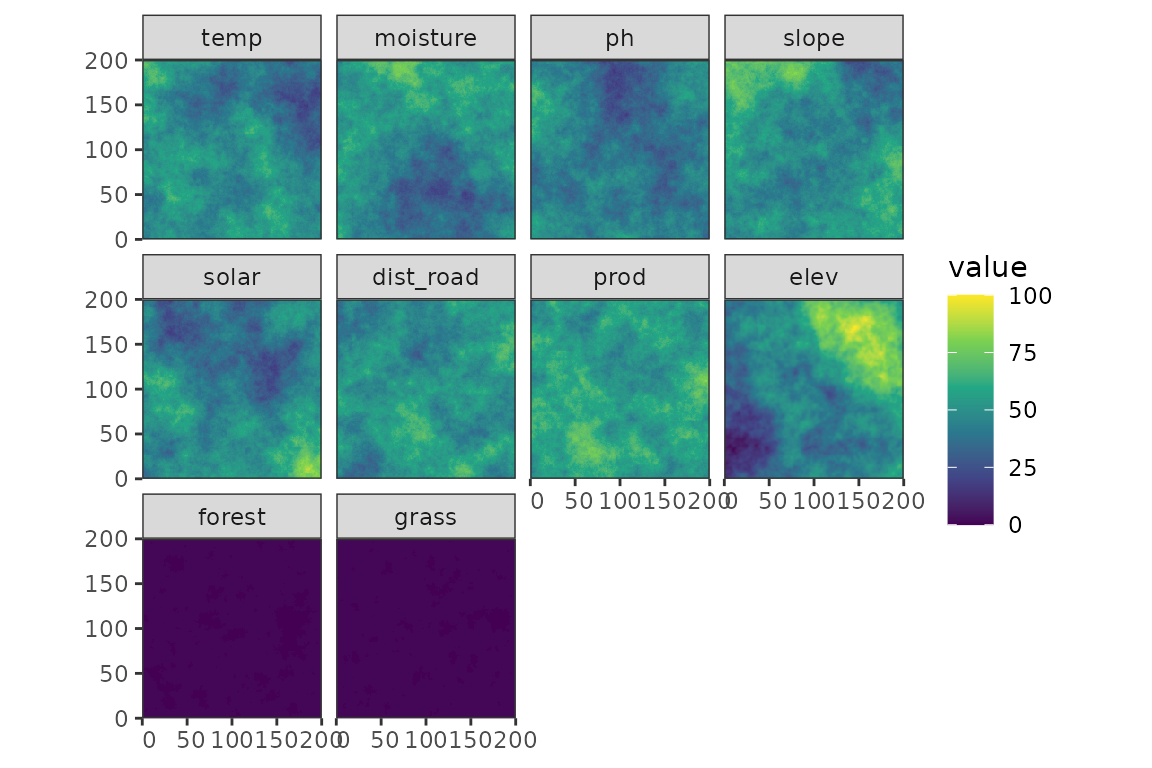
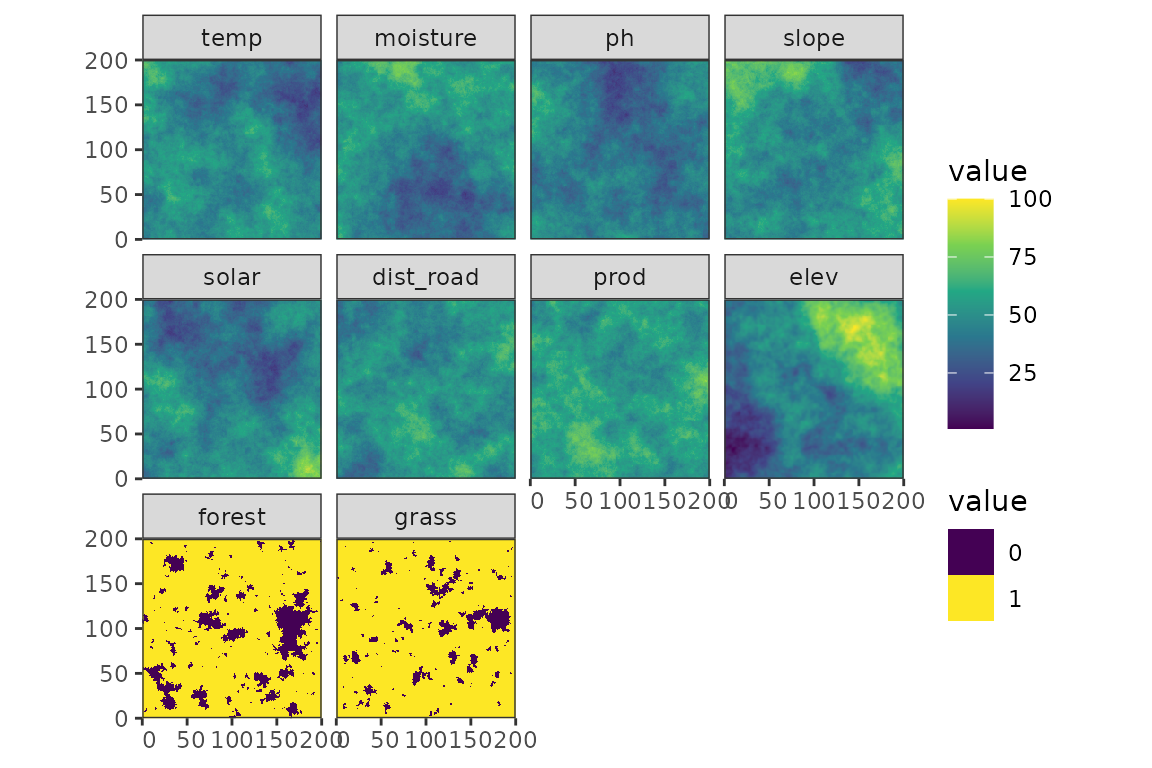
Deploying to gh-pages from @ JanLinnenbrink/PDAV@b4810d5c46e96fc256737f88a94db2c68ab0b177 🚀

Changed region(s): [[0.125, 0.6875, 0.4688, 0.9375], [0.8125, 0.2188, 0.9062, 0.8125]]

diff --git a/articles/twcv.html b/articles/twcv.html
@@ -829,18 +829,28 @@ section 8 and Figure 2.</p>
 <span>    twcv_specs <span class="op">=</span> <span class="va">twcv_specs</span></span>
 <span><span class="op">)</span></span>
 <span></span>
-<span><span class="co"># Unweighted error:</span></span>
-<span><span class="va">unweighted_losses</span></span>
-<span><span class="co">#&gt; $unweighted</span></span>
-<span><span class="co">#&gt;       bias        mse       rmse        mae </span></span>
-<span><span class="co">#&gt; -0.1167823 48.9339478  6.9952804  5.4573869</span></span>
+<span><span class="co"># True error:</span></span>
+<span><span class="va">fit</span> <span class="op">&lt;-</span> <span class="fu">fit_fun</span><span class="op">(</span></span>
+<span>    <span class="va">sample_dat</span> <span class="op">|&gt;</span> <span class="fu"><a href="https://dplyr.tidyverse.org/reference/select.html" class="external-link">select</a></span><span class="op">(</span><span class="fu"><a href="https://tidyselect.r-lib.org/reference/all_of.html" class="external-link">all_of</a></span><span class="op">(</span><span class="fu"><a href="https://rdrr.io/r/base/c.html" class="external-link">c</a></span><span class="op">(</span><span class="va">predictor_vars</span>, <span class="va">response</span><span class="op">)</span><span class="op">)</span><span class="op">)</span>,</span>
+<span>    model <span class="op">=</span> <span class="va">model</span>,</span>
+<span>    response <span class="op">=</span> <span class="va">response</span></span>
+<span><span class="op">)</span></span>
+<span><span class="va">prediction</span> <span class="op">&lt;-</span> <span class="fu">terra</span><span class="fu">::</span><span class="fu"><a href="https://rspatial.github.io/terra/reference/predict.html" class="external-link">predict</a></span><span class="op">(</span></span>
+<span>    <span class="va">predictor_stack</span>,</span>
+<span>    <span class="va">fit</span>,</span>
+<span>    fun <span class="op">=</span> <span class="kw">function</span><span class="op">(</span><span class="va">model</span>, <span class="va">data</span>, <span class="va">...</span><span class="op">)</span> <span class="op">{</span></span>
+<span>        <span class="fu"><a href="https://rspatial.github.io/terra/reference/predict.html" class="external-link">predict</a></span><span class="op">(</span><span class="va">model</span>, data <span class="op">=</span> <span class="va">data</span><span class="op">)</span><span class="op">$</span><span class="va">predictions</span></span>
+<span>    <span class="op">}</span>,</span>
+<span>    na.rm <span class="op">=</span> <span class="cn">TRUE</span></span>
+<span><span class="op">)</span></span>
+<span><span class="va">samples_pred</span> <span class="op">&lt;-</span> <span class="fu">terra</span><span class="fu">::</span><span class="fu"><a href="https://rspatial.github.io/terra/reference/as.points.html" class="external-link">as.points</a></span><span class="op">(</span><span class="va">prediction</span><span class="op">)</span> <span class="op">|&gt;</span></span>
+<span>    <span class="fu"><a href="https://r-spatial.github.io/sf/reference/st_as_sf.html" class="external-link">st_as_sf</a></span><span class="op">(</span><span class="op">)</span> <span class="op">|&gt;</span></span>
+<span>    <span class="fu"><a href="https://dplyr.tidyverse.org/reference/rename.html" class="external-link">rename</a></span><span class="op">(</span><span class="st">"prediction"</span> <span class="op">=</span> <span class="va">lyr1</span><span class="op">)</span></span>
+<span><span class="va">samples_pred</span> <span class="op">&lt;-</span> <span class="fu">terra</span><span class="fu">::</span><span class="fu"><a href="https://rspatial.github.io/terra/reference/extract.html" class="external-link">extract</a></span><span class="op">(</span><span class="va">r</span><span class="op">$</span><span class="va">outcome</span>, <span class="va">samples_pred</span>, bind <span class="op">=</span> <span class="cn">TRUE</span><span class="op">)</span></span>
 <span></span>
-<span><span class="co"># Weighted error:</span></span>
-<span><span class="va">result</span><span class="op">$</span><span class="va">estimators</span></span>
-<span><span class="co">#&gt;      bias       mse      rmse       mae </span></span>
-<span><span class="co">#&gt; -2.940997 37.332076  6.109998  4.871784</span></span></code></pre></div>
-<p>True error:</p>
-<pre><code><span><span class="co">#&gt; [1] 7.387563</span></span></code></pre>
+<span><span class="va">map_error</span> <span class="op">&lt;-</span> <span class="fu">caret</span><span class="fu">::</span><span class="fu"><a href="https://rdrr.io/pkg/caret/man/postResample.html" class="external-link">postResample</a></span><span class="op">(</span>pred <span class="op">=</span> <span class="va">samples_pred</span><span class="op">$</span><span class="va">prediction</span>, obs <span class="op">=</span> <span class="va">samples_pred</span><span class="op">$</span><span class="va">outcome</span><span class="op">)</span></span></code></pre></div>
+<p>The unweighted CV error is 6.11, while the weighted error is 6.995.
+The true map error is 7.468.</p>
 </div>
 <div class="section level3">
 <h3 id="sec-problems">8. Check if the inputs were supported for raking<a class="anchor" aria-label="anchor" href="#sec-problems"></a>
@@ -857,7 +867,7 @@ normalizing the weights by their mean can make the output look
 reasonable on average, even though most individual weights have
 collapsed towards zero — so this issue is easy to overlook without
 diagnostics such as the effective sample size.</p>
-<div class="sourceCode" id="cb12"><pre class="downlit sourceCode r">
+<div class="sourceCode" id="cb11"><pre class="downlit sourceCode r">
 <code class="sourceCode R"><span><span class="va">check_balance_support</span> <span class="op">&lt;-</span> <span class="kw">function</span><span class="op">(</span><span class="va">balance_df</span>, <span class="va">target_margins</span>, <span class="va">eps</span> <span class="op">=</span> <span class="fl">1e-12</span><span class="op">)</span> <span class="op">{</span></span>
 <span>    <span class="va">out</span> <span class="op">&lt;-</span> <span class="fu"><a href="https://rdrr.io/r/base/lapply.html" class="external-link">lapply</a></span><span class="op">(</span><span class="fu"><a href="https://rspatial.github.io/terra/reference/names.html" class="external-link">names</a></span><span class="op">(</span><span class="va">target_margins</span><span class="op">)</span>, <span class="kw">function</span><span class="op">(</span><span class="va">m</span><span class="op">)</span> <span class="op">{</span></span>
 <span>        <span class="va">levs</span> <span class="op">&lt;-</span> <span class="fu"><a href="https://rdrr.io/r/base/seq.html" class="external-link">seq_along</a></span><span class="op">(</span><span class="va">target_margins</span><span class="op">[[</span><span class="va">m</span><span class="op">]</span><span class="op">]</span><span class="op">)</span></span>
@@ -927,7 +937,11 @@ diagnostics such as the effective sample size.</p>
 <span><span class="co">#&gt; <span style="color: #BCBCBC;"> 8</span> prod                         0             1.43</span></span>
 <span><span class="co">#&gt; <span style="color: #BCBCBC;"> 9</span> slope                        0             1.33</span></span>
 <span><span class="co">#&gt; <span style="color: #BCBCBC;">10</span> solar                        0             1.33</span></span>
-<span><span class="co">#&gt; <span style="color: #BCBCBC;">11</span> temp                         0             6.67</span></span></code></pre></div>
+<span><span class="co">#&gt; <span style="color: #BCBCBC;">11</span> temp                         0             6.67</span></span>
+<span></span>
+<span><span class="va">zero_idx</span> <span class="op">&lt;-</span> <span class="va">tw</span><span class="op">$</span><span class="va">weights_raw</span> <span class="op">&lt;</span> <span class="fl">0.05</span> <span class="op">*</span> <span class="fu"><a href="https://rspatial.github.io/terra/reference/summarize-generics.html" class="external-link">mean</a></span><span class="op">(</span><span class="va">tw</span><span class="op">$</span><span class="va">weights_raw</span><span class="op">)</span></span>
+<span><span class="fu"><a href="https://rdrr.io/r/base/sum.html" class="external-link">sum</a></span><span class="op">(</span><span class="va">zero_idx</span><span class="op">)</span></span>
+<span><span class="co">#&gt; [1] 67</span></span></code></pre></div>
 <div id="refs" class="references csl-bib-body hanging-indent">
 <div id="ref-Brenning2026" class="csl-entry">
 Brenning, Alexander, and Thomas Suesse. 2026. <em>Aligning

diff --git a/articles/Prediction-domain-adaptive-validation.html b/articles/Prediction-domain-adaptive-validation.html
@@ -153,7 +153,8 @@ by the raking algorithm<br>- is <strong>prone to extrapolation</strong>
 (raking fails when it encounteres strong extrapolation)<br>- Depends on
 the resampling method (e.g., random resampling might not create
 geographical distances that are comparable to the prediction
-situation)</td>
+situation)<br>- Not clear if it is needed to weight the predictors based
+on their importance for the model</td>
 <td>- resampling method</td>
 </tr>
 </tbody>

diff --git a/articles/twcv.md b/articles/twcv.md
@@ -456,21 +456,30 @@ result <- list(
     twcv_specs = twcv_specs
 )
 
-# Unweighted error:
-unweighted_losses
-#> $unweighted
-#>       bias        mse       rmse        mae 
-#> -0.1167823 48.9339478  6.9952804  5.4573869
+# True error:
+fit <- fit_fun(
+    sample_dat |> select(all_of(c(predictor_vars, response))),
+    model = model,
+    response = response
+)
+prediction <- terra::predict(
+    predictor_stack,
+    fit,
+    fun = function(model, data, ...) {
+        predict(model, data = data)$predictions
+    },
+    na.rm = TRUE
+)
+samples_pred <- terra::as.points(prediction) |>
+    st_as_sf() |>
+    rename("prediction" = lyr1)
+samples_pred <- terra::extract(r$outcome, samples_pred, bind = TRUE)
 
-# Weighted error:
-result$estimators
-#>      bias       mse      rmse       mae 
-#> -2.940997 37.332076  6.109998  4.871784
+map_error <- caret::postResample(pred = samples_pred$prediction, obs = samples_pred$outcome)
 ```
 
-True error:
-
-    #> [1] 7.387563
+The unweighted CV error is 6.11, while the weighted error is 6.995. The
+true map error is 7.468.
 
 ### 8. Check if the inputs were supported for raking
 
@@ -558,6 +567,10 @@ support_check |>
 #>  9 slope                        0             1.33
 #> 10 solar                        0             1.33
 #> 11 temp                         0             6.67
+
+zero_idx <- tw$weights_raw < 0.05 * mean(tw$weights_raw)
+sum(zero_idx)
+#> [1] 67
 ```
 
 Brenning, Alexander, and Thomas Suesse. 2026. *Aligning Validation with